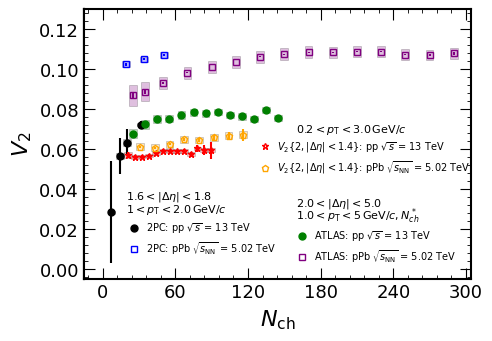
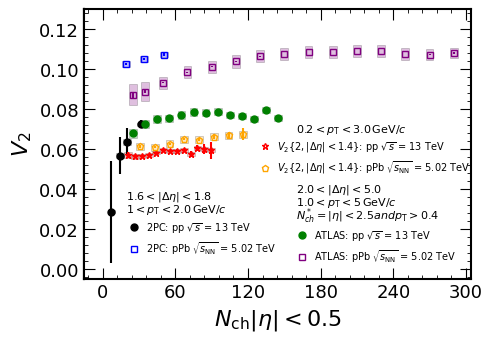
adding definition of Nch

diff --git a/Fig6_vn_allSystems_comp.py b/Fig6_vn_allSystems_comp.py
@@ -52,7 +52,7 @@ plables = [ "", ""
 	#		"$1.0 < p_\\mathrm{T,trigg(assoc)} < 2.0$","$2.0 < p_\\mathrm{T,trigg(assoc)} < 3.0$","$3.0 < p_\\mathrm{T,trigg(assoc)} < 4.0$"
 		 ];
 
-xtitle = ["$N_\\mathrm{ch}$",""];
+xtitle = ["$N_\\mathrm{ch} |\eta|<0.5$",""];
 ytitle = ["$V_{2}$","$V_{2}\\{4\\}$"];
 #labelList = ["pp $\\sqrt{s}$ = 13 TeV our","p$-$Pb $\\sqrt{s_\\mathrm{NN}}$ = 5.02 TeV our","pp $\\sqrt{s}$ = 13 TeV","p$-$Pb $\\sqrt{s_\\mathrm{NN}}$ = 5.02 TeV","Pb$-$Pb $\\sqrt{s_\\mathrm{NN}}$ = 5.02 TeV"]
 
@@ -122,8 +122,9 @@ plot.GetPlot().text(0.21,0.3,"$1 < p_\\mathrm{T} < 2.0 \\,\\mathrm{GeV}/c$",font
 plot.GetPlot().text(0.21,0.34,"$1.6<|\Delta\eta|<1.8$",fontsize=8);
 plot.GetPlot().text(0.55,0.53,"$0.2 < p_\\mathrm{T} < 3.0 \\,\\mathrm{GeV}/c$",fontsize=8);
 #plot.GetPlot().text(0.55,0.65,"$|\Delta\eta|<1.4$",fontsize=8);
-plot.GetPlot().text(0.55,0.32,"$2.0<|\Delta\eta|<5.0$",fontsize=8);
-plot.GetPlot().text(0.55,0.28,"$1.0 < p_\\mathrm{T} < 5 \\,\\mathrm{GeV}/c, N_{ch}^*$",fontsize=8);
+plot.GetPlot().text(0.55,0.36,"$2.0<|\Delta\eta|<5.0$",fontsize=8);
+plot.GetPlot().text(0.55,0.32,"$1.0 < p_\\mathrm{T} < 5 \\,\\mathrm{GeV}/c$",fontsize=8);
+plot.GetPlot().text(0.55,0.28,"$N_{ch}^* = |\eta|<2.5 and p_\\mathrm{T}>0.4$",fontsize=8);
 #plot.GetPlot().text(0.19,0.14,dataDetail[0],fontsize=11);
 
 
